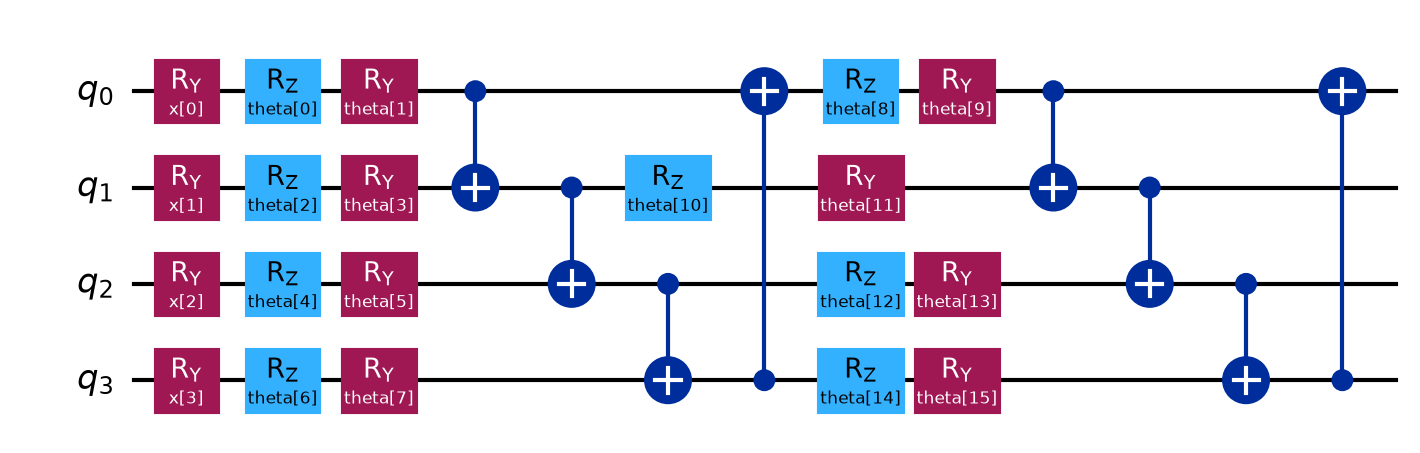
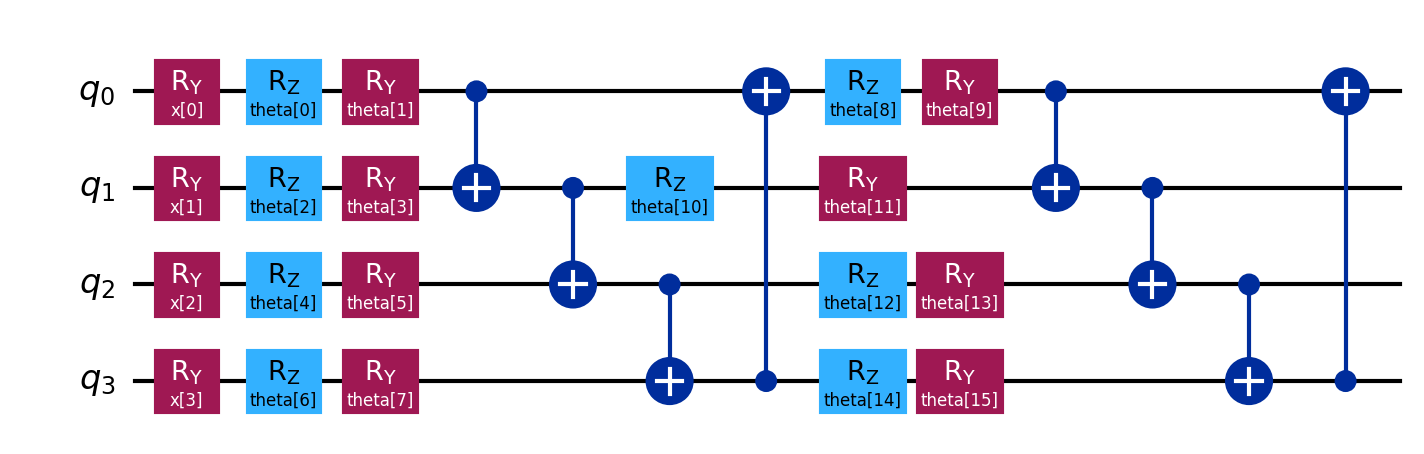
Sync VQC documentation with updated circuit

diff --git a/vqc_v0_documentation.md b/vqc_v0_documentation.md
@@ -19,6 +19,7 @@ It is a teaching example. The Q-network used by the CartPole agent lives in `vqc
 - Optimizer: Adam with a learning rate of 0.1
 - Loss function: Binary Cross-Entropy Loss
 - Training duration: 30 epochs
+- Circuit image: regenerated as `vqc_v0_circuit.png` whenever the program runs
 
 ## 2. Program Architecture
 
@@ -34,9 +35,12 @@ The NumPy and PyTorch random seeds are both set to `0`, making the generated dat
 N_QUBITS = 4
 N_LAYERS = 2
 ENTANGLE_MODE = "circular"
+CIRCUIT_IMAGE = "vqc_v0_circuit.png"
 ```
 
 `ENTANGLE_MODE` can be set to either `linear` or `circular`. Circular mode adds a CX gate from the final qubit back to the first qubit in every trainable layer.
+
+`CIRCUIT_IMAGE` defines the output path used by `qc.draw("mpl", ...)`. The diagram embedded in this document is therefore generated directly by the same circuit-construction function used for training.
 
 **Circular is required, not a preference.** A linear chain runs `q0 -> q1 -> q2 -> q3`, so qubit 0 is only ever a control and never a target. Because the output observable is measured on qubit 0, its backward light cone never reaches the upper qubits. Setting `linear` reproduces the original bug.
 
@@ -110,7 +114,7 @@ Running `python vqc_v0.py` regenerates this figure, so it cannot drift from the 
 
 ## 4. Execution Output
 
-Running the corrected model for 30 epochs (qiskit 2.5.1, qiskit-machine-learning 0.9.0, torch 2.13.0):
+Running the current circular `RZ -> RY` model for 30 epochs (Qiskit 2.5.1, Qiskit Machine Learning 0.9.0, and PyTorch 2.13.0) produced the following reproducible output:
 
 ```text
 Epoch  0 | Loss: 0.6741 | Acc: 0.57
